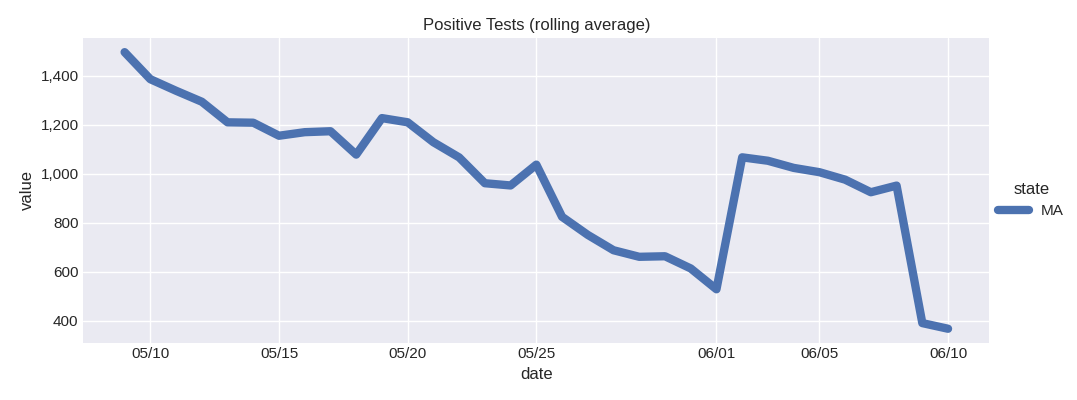
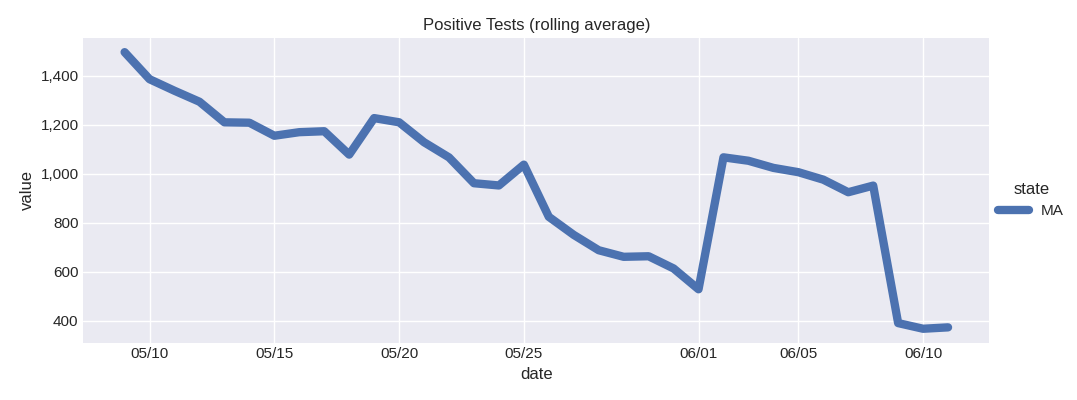
Apply automatic changes

diff --git a/index.html b/index.html
@@ -22,7 +22,7 @@
           can't really rely on what you see that is more recent than 3 weeks. 
         </p>
         <p>
-          These graphs and the programming were done by me, Pito Salas. Feel free to ask me for a copy! File generated at 2020-06-11 21:06:07 +0000.
+          These graphs and the programming were done by me, Pito Salas. Feel free to ask me for a copy! File generated at 2020-06-11 22:06:02 +0000.
         </p>
       </div>
     </div>
